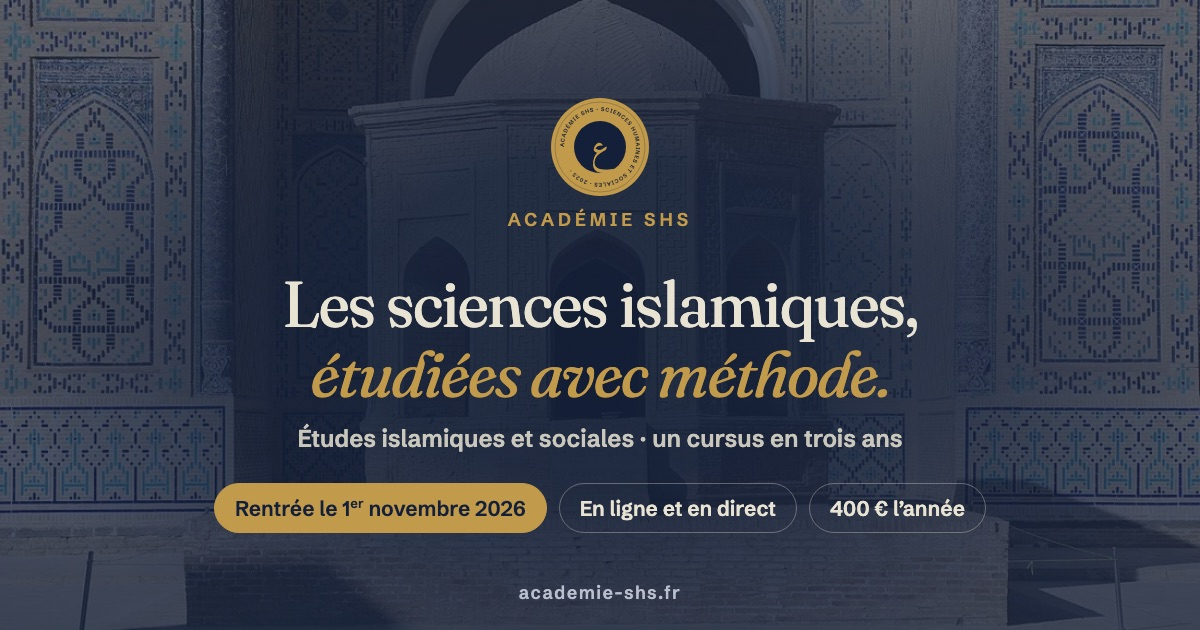
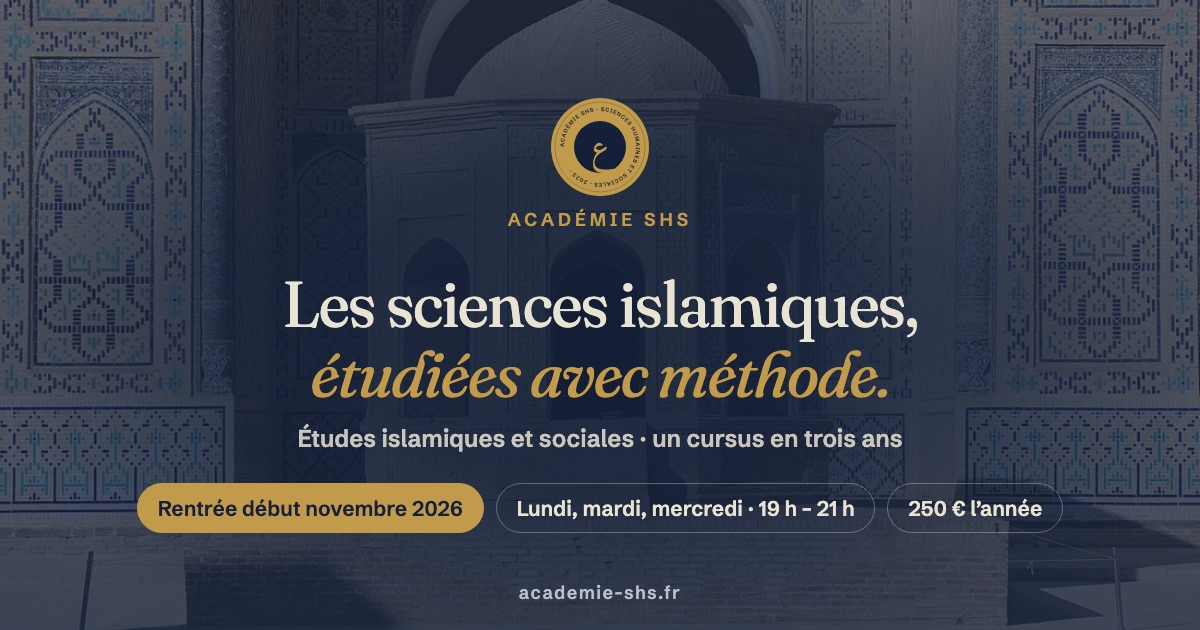
feat(vitrine): rentrée début novembre, lundi, mardi et mercredi de 19 h à 21 h, 250 € l'année
Mise à jour du 17/10/2026, à la demande de l'association :
- plus de date précise : « début novembre 2026 » partout (page, partage, questions) ;
- soirs fixés pour tous : lundi, mardi et mercredi, deux séances d'une heure (19 h – 20 h et
  20 h – 21 h), soit 6 h par semaine ; un planning de la semaine remplace la note « jours à venir » ;
- prix de la première année : 250 € ;
- le formulaire ne demande plus de disponibilités (soirs identiques pour tous). Brevo reste
  compatible : CRENEAUX arrive vide pour les nouvelles préinscriptions, les anciennes valeurs
  sont conservées ;
- image de partage refaite (v=2026-10-17) ; CLAUDE.md, README et docs/BREVO.md à jour.

Changed region(s): [[0.0925, 0.754, 0.8633, 0.8746]]

diff --git a/src/i18n/textes.ts b/src/i18n/textes.ts
@@ -4,7 +4,7 @@
 // textes arabes et anglais de l'ancienne page sont gardés dans `textes-archive.ts`, pour rouvrir
 // ces langues plus tard.
 //
-// Les chiffres de la rentrée (date, heures, prix) ne sont jamais écrits en dur : ils viennent de
+// Les chiffres de la rentrée (début, soirs, horaires, heures, prix) ne sont jamais écrits en dur : ils viennent de
 // `RENTREE` et des heures de la première année, dans `src/data/cours.ts`.
 
 import { ANNEES, RENTREE, heuresAnnee, type Langue } from '../data/cours';
@@ -54,17 +54,21 @@ const SEMAINES = Math.round(HEURES / RENTREE.heuresParSemaine);
 const HEURES_MATIERE = PREMIERE.matieres[0]?.heures ?? 0;
 const NB_MATIERES = PREMIERE.matieres.length;
 const PRIX = `${RENTREE.prixPremiereAnnee} €`;
-const MOIS = ['janvier', 'février', 'mars', 'avril', 'mai', 'juin', 'juillet', 'août', 'septembre', 'octobre', 'novembre', 'décembre'];
+const SEANCE_HEURES = RENTREE.seances.map((x) => x.split(' – ')) as [string, string][];
+/** « 19 h – 21 h » : du début de la première séance à la fin de la dernière. */
+const HORAIRE = `${SEANCE_HEURES[0][0]} – ${SEANCE_HEURES[SEANCE_HEURES.length - 1][1]}`;
+const JOURS_SEMAINE = ['lundi', 'mardi', 'mercredi', 'jeudi', 'vendredi', 'samedi', 'dimanche'];
 
-/** « 1<sup>er</sup> novembre 2026 » (HTML), à partir de `RENTREE.debut`. */
-function dateHtml(iso: string, avecAnnee = true): string {
-  const [annee, mois, jour] = iso.split('-').map(Number);
-  const j = jour === 1 ? '1<sup>er</sup>' : String(jour);
-  return `${j} ${MOIS[mois - 1]}${avecAnnee ? ` ${annee}` : ''}`;
+/** « lundi, mardi et mercredi » */
+function enumerer(mots: readonly string[]): string {
+  return mots.length <= 1 ? (mots[0] ?? '') : `${mots.slice(0, -1).join(', ')} et ${mots[mots.length - 1]}`;
 }
-const DEBUT = dateHtml(RENTREE.debut);
-const DEBUT_COURT = dateHtml(RENTREE.debut, false);
-const DEBUT_TEXTE = DEBUT.replace(/<\/?sup>/g, '');
+const JOURS = enumerer(RENTREE.jours);
+const JOURS_ABREGES = RENTREE.jours.map((j) => `${j.slice(0, 3)}.`).join(', ');
+const majuscule = (t: string) => t.charAt(0).toUpperCase() + t.slice(1);
+/** « début novembre 2026 » */
+const DEBUT = `${RENTREE.debut} ${RENTREE.annee}`;
+const NB_SEANCES = RENTREE.seances.length === 2 ? 'deux' : String(RENTREE.seances.length);
 
 /** Les champs marqués « html » contiennent des exposants (<sup>) : ils sont écrits avec set:html. */
 export interface Textes {
@@ -101,8 +105,8 @@ export interface Textes {
     heuresTexte: string;
     prix: number;
     prixTexte: string;
-    direct: string;
-    directTexte: string;
+    jours: string;
+    horaire: string;
   };
   programme: {
     surtitre: string;
@@ -131,7 +135,13 @@ export interface Textes {
     /** html */
     titre: string;
     faits: { valeur: number; suffixe: string; texte: string }[];
-    note: string;
+    planning: {
+      titre: string;
+      /** Les sept jours, abrégés ; `actif` pour les soirs de cours. */
+      jours: { abrege: string; actif: boolean }[];
+      seances: string[];
+      texte: string;
+    };
     prixSurtitre: string;
     prix: number;
     prixUnite: string;
@@ -181,8 +191,6 @@ export interface Textes {
     paysOptions: Option[];
     niveau: string;
     niveauOptions: Option[];
-    creneaux: string;
-    creneauxOptions: Option[];
     origine: string;
     origineOptions: Option[];
     majeur: string;
@@ -210,7 +218,7 @@ export interface Textes {
 export const TEXTES: Textes = {
   meta: {
     titre: 'Académie SHS — Études islamiques et sociales, cursus en trois ans',
-    description: `Un cursus de trois ans en ligne et en direct, pour adultes : sciences islamiques classiques, sciences humaines et cadre institutionnel français. Rentrée le ${DEBUT_TEXTE}. Préinscription gratuite et sans engagement.`,
+    description: `Un cursus de trois ans en ligne et en direct, pour adultes : sciences islamiques classiques, sciences humaines et cadre institutionnel français. Rentrée ${DEBUT}, ${RENTREE.heuresParSemaine} h par semaine. Préinscription gratuite et sans engagement.`,
   },
   nav: {
     cursus: 'Le cursus',
@@ -223,7 +231,7 @@ export const TEXTES: Textes = {
   },
   provisoire: 'Photo provisoire',
   hero: {
-    pastille: `Rentrée le ${DEBUT} · préinscriptions ouvertes`,
+    pastille: `Rentrée ${DEBUT} · préinscriptions ouvertes`,
     titreDebut: 'Les sciences islamiques, ',
     titreAccent: 'étudiées avec\u00a0méthode',
     titreFin: '.',
@@ -241,16 +249,16 @@ export const TEXTES: Textes = {
   },
   reperes: {
     libelle: 'La rentrée en bref',
-    debut: DEBUT_COURT,
-    debutTexte: 'début des cours',
+    debut: majuscule(RENTREE.debut.replace(/^début /, '')),
+    debutTexte: `début des cours, ${RENTREE.annee}`,
     heuresParSemaine: RENTREE.heuresParSemaine,
     semaine: 'de cours par semaine',
     heures: HEURES,
     heuresTexte: 'en 1<sup>re</sup> année',
     prix: RENTREE.prixPremiereAnnee,
     prixTexte: 'l’année',
-    direct: 'En direct',
-    directTexte: 'et en rediffusion',
+    jours: `${RENTREE.jours.length} soirs`,
+    horaire: `${JOURS_ABREGES}, ${HORAIRE}`,
   },
   programme: {
     surtitre: 'Le cursus',
@@ -270,14 +278,14 @@ export const TEXTES: Textes = {
     ],
     parcours: 'Le parcours',
     etapesParcours: [
-      { titre: '1<sup>re</sup> année', texte: `${NB_MATIERES} matières · ${HEURES} h · rentrée ${RENTREE.debut.slice(0, 4)}` },
+      { titre: '1<sup>re</sup> année', texte: `${NB_MATIERES} matières · ${HEURES} h · rentrée ${RENTREE.annee}` },
       { titre: '2<sup>e</sup> année', texte: `${ANNEES[1]?.matieres.length ?? 0} matières` },
       { titre: '3<sup>e</sup> année', texte: `${ANNEES[2]?.matieres.length ?? 0} matières` },
       { titre: 'Mémoire', texte: '80 à 120 pages' },
     ],
     matieres: (n) => (n <= 1 ? `${n} matière` : `${n} matières`),
     horairesAVenir: 'horaires à venir',
-    rentree: `Rentrée le ${DEBUT}`,
+    rentree: `Rentrée ${DEBUT}`,
     chiffres: [
       { valeur: NB_MATIERES, suffixe: '', libelle: 'matières' },
       { valeur: HEURES, suffixe: ' h', libelle: 'de cours' },
@@ -291,14 +299,19 @@ export const TEXTES: Textes = {
     certificatDetail: 'à l’issue du cursus.',
   },
   rentree: {
-    surtitre: `Rentrée ${RENTREE.debut.slice(0, 4)}`,
-    titre: `Les cours commencent le ${DEBUT_COURT}.`,
+    surtitre: `Rentrée ${RENTREE.annee}`,
+    titre: `Les cours commencent ${RENTREE.debut}.`,
     faits: [
       { valeur: RENTREE.heuresParSemaine, suffixe: 'h', texte: 'de cours par semaine, en ligne et en direct' },
       { valeur: HEURES, suffixe: 'h', texte: `en première année, soit ${SEMAINES} semaines de cours` },
       { valeur: NB_MATIERES, suffixe: '', texte: `matières de ${HEURES_MATIERE} heures chacune` },
     ],
-    note: 'Les jours et horaires des cours seront communiqués aux préinscrits. Indiquez vos disponibilités dans le formulaire : elles nous aident à les fixer.',
+    planning: {
+      titre: 'Chaque semaine',
+      jours: JOURS_SEMAINE.map((j) => ({ abrege: majuscule(j.slice(0, 3)), actif: RENTREE.jours.includes(j) })),
+      seances: RENTREE.seances,
+      texte: `${majuscule(JOURS)} soir : ${NB_SEANCES} séances d’une heure, de ${HORAIRE.replace(' – ', ' à ')}.`,
+    },
     prixSurtitre: 'Première année',
     prix: RENTREE.prixPremiereAnnee,
     prixUnite: 'l’année',
@@ -365,8 +378,8 @@ export const TEXTES: Textes = {
   etapes: {
     liste: [
       { titre: 'Vous vous préinscrivez', texte: 'Deux minutes, gratuit et sans engagement.' },
-      { titre: 'L’Académie vous recontacte', texte: 'Avec les jours et horaires des cours, pour finaliser l’inscription.' },
-      { titre: 'Vous entrez en 1re année', texte: `Dès le ${DEBUT_TEXTE}, en ligne et en direct, en français.` },
+      { titre: 'L’Académie vous recontacte', texte: 'Pour finaliser votre inscription avant la rentrée.' },
+      { titre: 'Vous entrez en 1re année', texte: `${majuscule(DEBUT)}, le ${JOURS} soir, en ligne et en direct.` },
     ],
   },
   formulaire: {
@@ -400,12 +413,6 @@ export const TEXTES: Textes = {
       { valeur: 'avance', libelle: 'Avancé' },
       { valeur: 'ne-sait-pas', libelle: 'Je ne sais pas' },
     ],
-    creneaux: 'Vos disponibilités',
-    creneauxOptions: [
-      { valeur: 'soir-semaine', libelle: 'Soirs de semaine' },
-      { valeur: 'samedi', libelle: 'Samedi' },
-      { valeur: 'dimanche', libelle: 'Dimanche' },
-    ],
     origine: 'Comment avez-vous connu l’Académie ?',
     origineOptions: [
       { valeur: '', libelle: 'Choisir…' },
@@ -428,7 +435,7 @@ export const TEXTES: Textes = {
     erreurEnvoi:
       'L’envoi n’a pas abouti. Vérifiez les champs et réessayez, ou écrivez-nous à contact@academie-shs.fr.',
     merciTitre: 'Merci, c’est noté !',
-    merciTexte: `Votre préinscription est enregistrée. L’Académie vous recontacte avant le ${DEBUT_COURT} avec les jours et horaires des cours.`,
+    merciTexte: `Votre préinscription est enregistrée. L’Académie vous recontacte avant la rentrée, ${RENTREE.debut}.`,
   },
   faq: {
     surtitre: 'Questions',
@@ -441,7 +448,7 @@ export const TEXTES: Textes = {
       },
       {
         q: 'Quand commencent les cours ?',
-        r: `Le ${DEBUT_TEXTE}, à raison de ${RENTREE.heuresParSemaine} heures de cours par semaine. Les jours et horaires seront communiqués aux préinscrits.`,
+        r: `${majuscule(DEBUT)}. Les cours ont lieu le ${JOURS} soir, de ${HORAIRE.replace(' – ', ' à ')} : ${NB_SEANCES} séances d’une heure chaque soir, soit ${RENTREE.heuresParSemaine} heures par semaine.`,
       },
       {
         q: 'Combien d’heures de cours en première année ?',
@@ -449,7 +456,7 @@ export const TEXTES: Textes = {
       },
       {
         q: 'La préinscription m’engage-t-elle ?',
-        r: 'Non. Elle est gratuite et sans engagement : vos disponibilités nous aident à fixer les jours et horaires des cours.',
+        r: 'Non. Elle est gratuite et sans engagement : elle nous aide à préparer la rentrée.',
       },
       { q: 'Faut-il parler arabe ?', r: 'Non. Les cours sont donnés en français.' },
       {
@@ -460,8 +467,8 @@ export const TEXTES: Textes = {
     ],
   },
   barreMobile: {
-    titre: `Rentrée le ${DEBUT_COURT}`,
-    texte: `${PRIX} l’année · ${RENTREE.heuresParSemaine} h par semaine`,
+    titre: `Rentrée ${DEBUT}`,
+    texte: `${PRIX} l’année · ${JOURS_ABREGES} ${HORAIRE}`,
     cta: 'Se préinscrire',
   },
   pied: {

diff --git a/src/styles/global.css b/src/styles/global.css
@@ -1033,19 +1033,73 @@ html[dir='rtl'] .btn:hover svg {
   color: var(--sourdine);
   line-height: 1.45;
 }
-.note {
-  margin-top: 28px;
+.planning {
+  margin-top: 32px;
+  max-width: 600px;
+  padding: 24px;
+  border-radius: var(--rayon);
+  background: var(--papier);
+  border: 1px solid var(--ligne);
+  display: grid;
+  gap: 14px;
+}
+.planning__titre {
+  font-size: 13px;
+  font-weight: 600;
+  letter-spacing: 0.14em;
+  text-transform: uppercase;
+  color: var(--metal-fonce);
+}
+.semaine {
+  list-style: none;
+  margin: 0;
+  padding: 0;
+  display: grid;
+  grid-template-columns: repeat(7, minmax(0, 1fr));
+  gap: 6px;
+}
+.semaine li {
+  text-align: center;
+  font-size: 13px;
+  font-weight: 600;
+  padding: 10px 0;
+  border-radius: 8px;
+  background: var(--fond);
+  color: var(--sourdine);
+  transition: background-color 0.5s ease, color 0.5s ease, transform 0.5s var(--douce);
+}
+.semaine li.actif {
+  background: var(--profond);
+  color: var(--metal);
+}
+.semaine li.actif:nth-child(2) {
+  transition-delay: 0.15s;
+}
+.semaine li.actif:nth-child(3) {
+  transition-delay: 0.3s;
+}
+.anime [data-revele]:not(.vu) .semaine li.actif {
+  background: var(--fond);
+  color: var(--sourdine);
+  transform: scale(0.85);
+}
+.planning__seances {
+  display: flex;
+  flex-wrap: wrap;
+  gap: 8px;
+}
+.planning__seances span {
+  padding: 6px 12px;
+  border-radius: 999px;
+  background: color-mix(in srgb, var(--metal) 16%, transparent);
+  color: var(--metal-fonce);
+  font-size: 15px;
+  font-weight: 600;
+  font-variant-numeric: tabular-nums;
+}
+.planning > p:last-child {
   font-size: 15px;
   color: var(--sourdine);
-  display: flex;
-  gap: 10px;
-  align-items: flex-start;
-  max-width: 36em;
-}
-.note svg {
-  flex: none;
-  margin-top: 2px;
-  color: var(--metal-fonce);
 }
 .prix {
   position: relative;

diff --git a/outils/og-image.html b/outils/og-image.html
@@ -3,7 +3,7 @@
      réseaux (1200 × 630). Composition centrée : quand WhatsApp réduit l'aperçu en vignette carrée,
      il en garde le centre. Après modification : `npm run images`, puis changer le `v=` de l'image
      dans src/layouts/Base.astro (WhatsApp garde longtemps l’ancienne).
-     La date et le prix sont écrits en dur : les tenir d’accord avec `RENTREE` (src/data/cours.ts). -->
+     La rentrée, les soirs, l’horaire et le prix sont écrits en dur : les tenir d’accord avec `RENTREE` (src/data/cours.ts). -->
 <html lang="fr">
 <head>
 <meta charset="utf-8">
@@ -57,9 +57,9 @@
   <h1>Les sciences islamiques, <em>étudiées avec méthode.</em></h1>
   <p class="cursus">Études islamiques et sociales · un cursus en trois ans</p>
   <div class="pastilles">
-    <span class="pastille pastille--metal">Rentrée le 1<sup>er</sup> novembre 2026</span>
-    <span class="pastille">En ligne et en direct</span>
-    <span class="pastille">400 € l’année</span>
+    <span class="pastille pastille--metal">Rentrée début novembre 2026</span>
+    <span class="pastille">Lundi, mardi, mercredi · 19 h – 21 h</span>
+    <span class="pastille">250 € l’année</span>
   </div>
   <p class="adresse">academie-shs.fr</p>
 </div>

diff --git a/src/data/cours.ts b/src/data/cours.ts
@@ -199,15 +199,20 @@ export const COMPETENCES = {
 };
 
 /**
- * La rentrée, telle que l'association l'a fixée le 16/10/2026. Les jours et horaires des cours ne
- * sont pas encore arrêtés : ne pas les afficher, la page dit seulement « 3 h par semaine ».
+ * La rentrée, telle que l'association l'a fixée (16/10/2026, mise à jour le 17/10/2026). Pas de
+ * date précise : la page dit « début novembre ».
  */
 export const RENTREE = {
-  /** Premier jour des cours. */
-  debut: '2026-11-01',
-  heuresParSemaine: 3,
+  annee: 2026,
+  debut: 'début novembre',
+  /** Les soirs de cours, les mêmes pour tous. */
+  jours: ['lundi', 'mardi', 'mercredi'],
+  /** Chaque soir, deux séances d'une heure. */
+  seances: ['19 h – 20 h', '20 h – 21 h'],
+  /** 3 soirs × 2 séances d'une heure. */
+  heuresParSemaine: 6,
   /** Prix de la première année, en euros. */
-  prixPremiereAnnee: 400,
+  prixPremiereAnnee: 250,
 };
 
 /** Volume horaire total d'une année : la somme des heures de ses matières. */

diff --git a/CLAUDE.md b/CLAUDE.md
@@ -20,9 +20,11 @@ programme restent dans `src/data/cours.ts`. `/ar/` et `/en/` redirigent vers l'a
 - Jamais « diplôme », « licence », « master » ni « université » (Code de l'éducation,
   art. L731-14) : on écrit « certificat de l'Académie », « attestation de suivi ».
 - Ni date, ni tarif, ni nom d'enseignant tant que l'association ne les a pas fixés. Fixés le
-  16/10/2026 : rentrée le 1er novembre 2026, 3 h de cours par semaine, 400 € la première année,
-  six matières de 15 h (`RENTREE` et `heures` dans `src/data/cours.ts`). **Les jours et horaires
-  des cours ne sont pas validés : ne pas les afficher.**
+  16/10/2026 et mis à jour le 17/10/2026 : rentrée « début novembre » 2026 (**pas de date
+  précise**), lundi, mardi et mercredi soir, deux séances d'une heure (19 h – 20 h et
+  20 h – 21 h), soit 6 h par semaine, 250 € la première année, six matières de 15 h (`RENTREE` et
+  `heures` dans `src/data/cours.ts`). Les soirs étant les mêmes pour tous, le formulaire ne demande
+  plus de disponibilités (17/10/2026).
 - Le tableau horaire de l'association contient aussi le coût des enseignants (tarif horaire,
   coût net) : **donnée interne, jamais sur le site**.
 - Le programme (`src/data/cours.ts`) reprend **mot pour mot** `cursus.md`, le document de

diff --git a/docs/BREVO.md b/docs/BREVO.md
@@ -40,7 +40,7 @@ nom (majuscules, tirets bas) et le type.
 | `NIVEAU` | Texte | `debutant`, `intermediaire`, `avance`, `ne-sait-pas` |
 | `MODULES` | Texte | `cursus-eis` (cursus complet, depuis le 11/10/2026) ; les préinscriptions plus anciennes gardent leurs codes de cours : `fiqh, sira, khaldun` |
 | `LANGUE_COURS` | Texte | `fr`, `ar`, `en`, séparés par une virgule (plus rempli depuis le 11/10/2026 : cours en français seulement) |
-| `CRENEAUX` | Texte | `soir-semaine`, `samedi`, `dimanche` |
+| `CRENEAUX` | Texte | `soir-semaine`, `samedi`, `dimanche` — plus demandé depuis le 17/10/2026 (soirs fixés pour tous) : vide pour les nouvelles préinscriptions, conservé pour les anciennes |
 | `ORIGINE` | Texte | `whatsapp`, `instagram`, `facebook`, `bouche-a-oreille`, `mosquee-association`, `autre` |
 | `LANGUE_SITE` | Texte | langue de la page utilisée : `fr`, `ar`, `en` |
 | `DATE_PREINSCRIPTION` | Date | première préinscription, jamais écrasée |

diff --git a/README.md b/README.md
@@ -35,7 +35,7 @@ avant l'envoi du formulaire.
 
 ## Changer la rentrée, le prix ou publier la vidéo
 
-- Date de rentrée, heures par semaine, prix : `RENTREE` dans `src/data/cours.ts`. Tous les textes
+- Rentrée, soirs et horaires des cours, heures par semaine, prix : `RENTREE` dans `src/data/cours.ts`. Tous les textes
   de la page (repères, carte du prix, questions, barre sur téléphone) en découlent. **L'image de
   partage les écrit en dur** : mettre `outils/og-image.html` d'accord, `npm run images`, puis
   changer le `v=` de l'image dans `src/layouts/Base.astro` (WhatsApp garde l'ancienne sinon).
